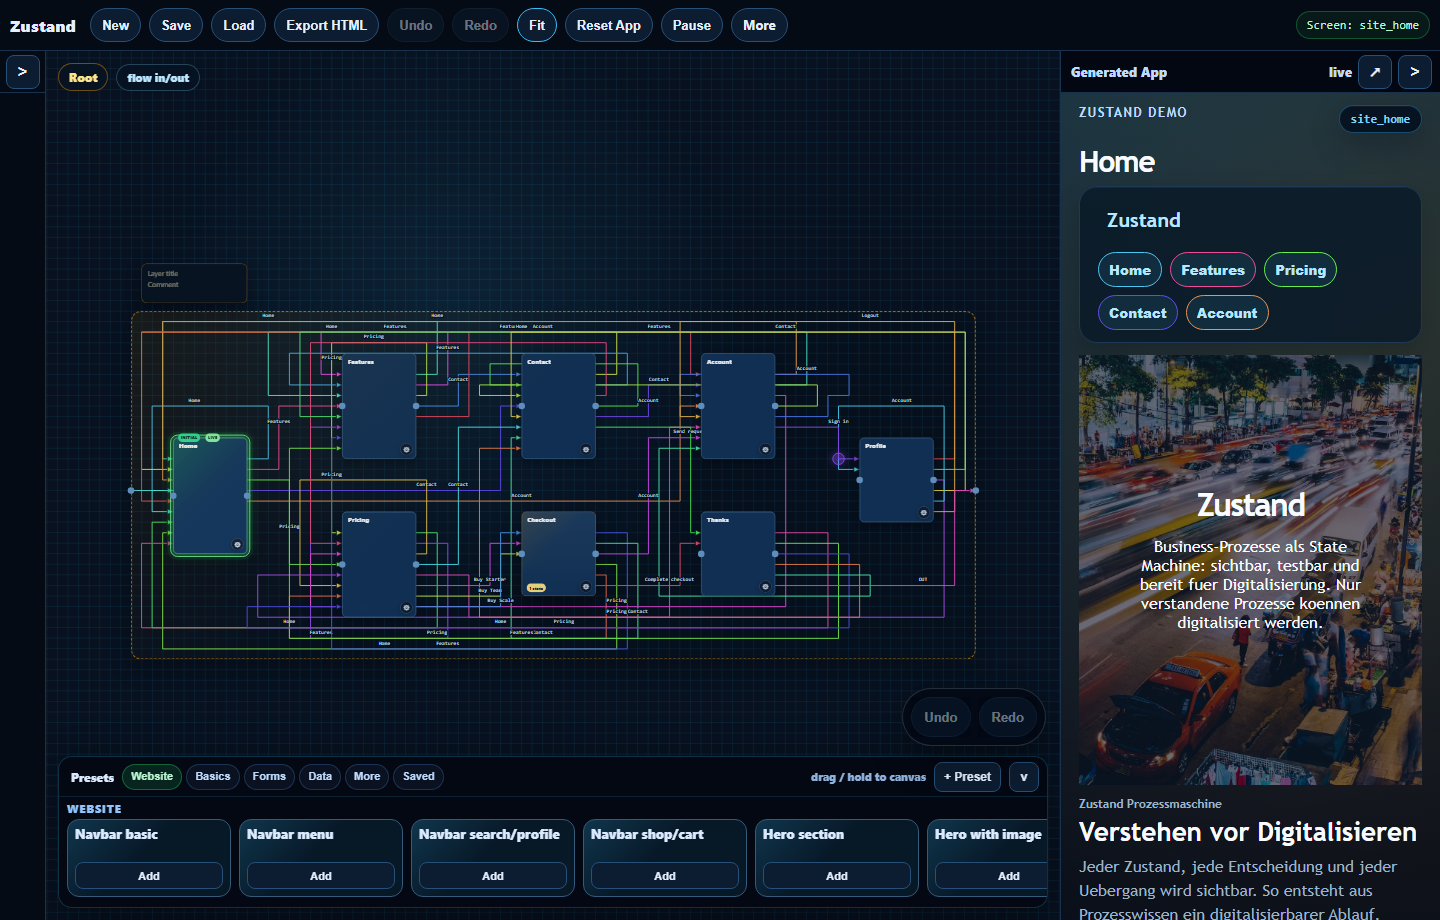
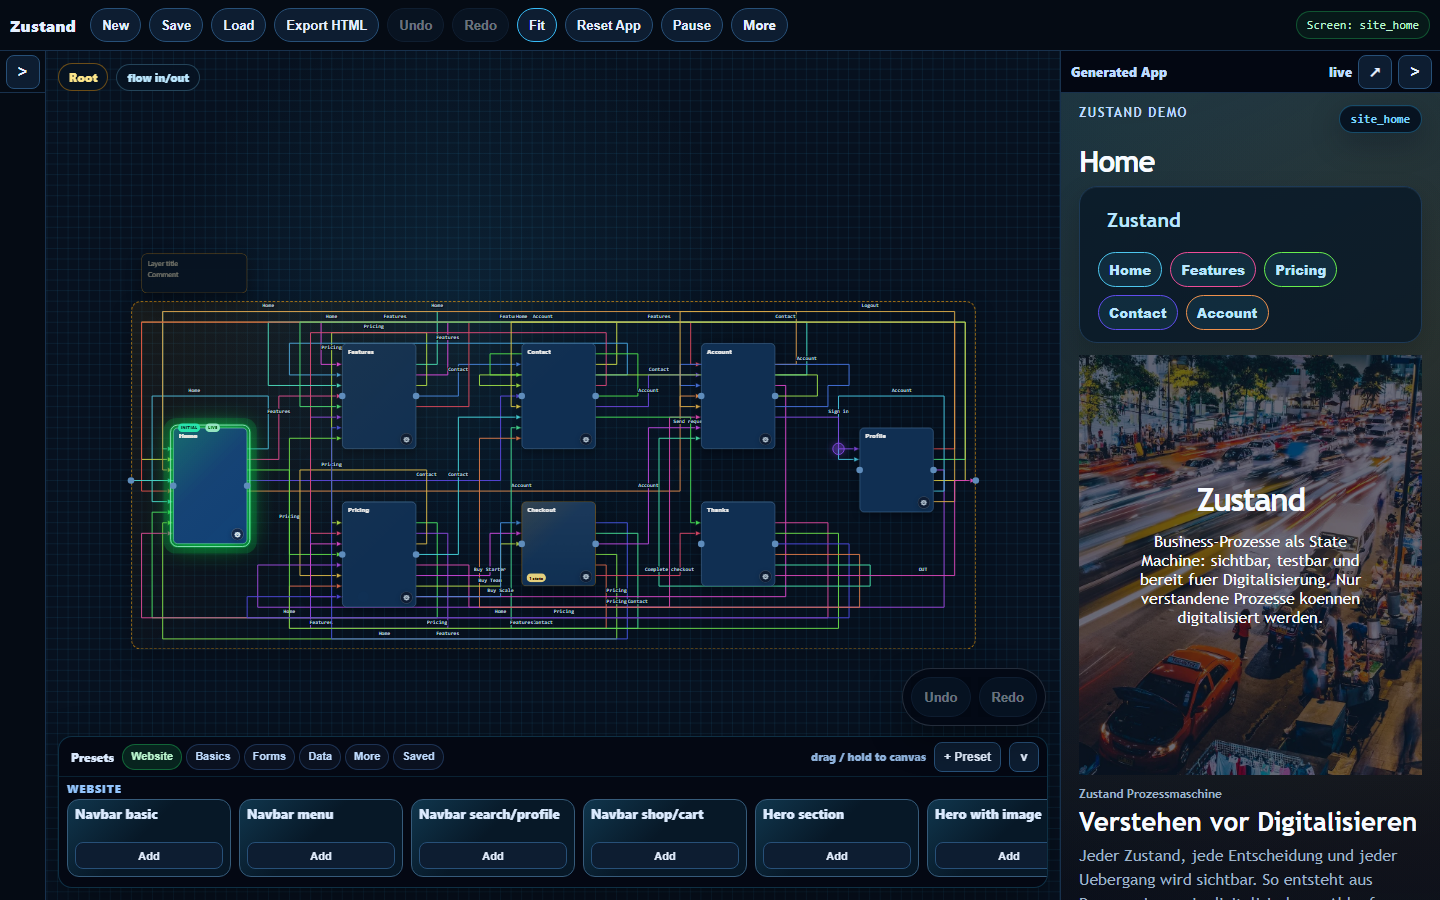
Harden demo actions and README screenshots

diff --git a/index.html b/index.html
@@ -1424,14 +1424,14 @@
     .daisy-feature-header { display: grid; gap: 8px; max-width: 720px; }
     .daisy-feature-header .daisy-title { font-size: clamp(26px, 4vw, 42px); line-height: 1.05; }
     .daisy-feature-cards { display: grid; grid-template-columns: repeat(auto-fit, minmax(min(100%, 220px), 1fr)); gap: 14px; align-items: stretch; }
-    .daisy-feature-card { display: flex; flex-direction: column; min-width: 0; }
+    .daisy-feature-card { display: flex; flex-direction: column; min-width: 0; height: 100%; }
     .daisy-feature-image { display: block; width: 100%; aspect-ratio: 16 / 10; object-fit: cover; border-bottom: 1px solid var(--line); background: #020617; }
-    .daisy-feature-card > .card-body { display: flex; flex-direction: column; width: 100%; gap: 8px; padding: 20px; }
+    .daisy-feature-card > .card-body { display: flex; flex: 1 1 auto; flex-direction: column; width: 100%; gap: 8px; padding: 20px; }
     .daisy-feature-card .card-actions { margin-top: auto; }
     .card[data-highlight="true"] { border-color: rgba(56,189,248,.58); box-shadow: inset 0 1px 0 rgba(255,255,255,.06), 0 18px 46px rgba(56,189,248,.16); }
     .daisy-pricing { display: grid; grid-template-columns: repeat(auto-fit, minmax(min(100%, 220px), 1fr)); gap: 16px; align-items: stretch; }
     .daisy-pricing > .card { display: flex; min-width: 0; }
-    .daisy-pricing > .card > .card-body { display: flex; flex-direction: column; gap: 8px; width: 100%; padding: 22px; }
+    .daisy-pricing > .card > .card-body { display: flex; flex: 1 1 auto; flex-direction: column; gap: 8px; width: 100%; padding: 22px; }
     .daisy-pricing .card-actions { margin-top: auto; }
     .daisy-pricing .btn { width: 100%; }
     @media (max-width: 540px) {
@@ -1484,7 +1484,7 @@
 
     const IS_STANDALONE_EXPORT = true;
[1 lines of base64/hex data omitted]
-    const EXPORTED_STATE_BLUEPRINT_SAVED_AT = "2026-07-08T12:03:50.016Z";
+    const EXPORTED_STATE_BLUEPRINT_SAVED_AT = "2026-07-08T14:53:09.365Z";
 
     let model = normalizeModel(JSON.parse(JSON.stringify(EXPORTED_STATE_BLUEPRINT)));
     let current = model.initial;
@@ -2281,12 +2281,24 @@
 
     function boundaryConfigFor(state) {
       const boundary = state && typeof state.boundary === "object" ? state.boundary : {};
-      return {
+      const out = {
         entryId: String(boundary.entryId || ""),
         exitId: String(boundary.exitId || ""),
         entryDisabled: Boolean(boundary.entryDisabled),
         exitDisabled: Boolean(boundary.exitDisabled)
       };
+      if (boundary.entryTriggerType !== undefined) {
+        out.entryTriggerType = normalizeTransitionTriggerType({ triggerType: boundary.entryTriggerType });
+        out.entryTriggerEvent = normalizeTransitionTriggerEvent({
+          id: out.entryId || "child-entry",
+          label: out.entryId || "Child entry",
+          triggerType: out.entryTriggerType,
+          triggerEvent: boundary.entryTriggerEvent || ""
+        });
+        out.entryTimerMs = normalizeTransitionTimerMs(boundary.entryTimerMs);
+        out.entryCondition = String(boundary.entryCondition || "");
+      }
+      return out;
     }
 
     function firstInternalEntryState(parentId) {
@@ -2314,7 +2326,14 @@
 
     function resolveRuntimeTarget(targetId, transition = null) {
       const target = findState(targetId);
-      return target ? target.id : targetId;
+      if (!target) return targetId;
+      const boundary = boundaryConfigFor(target);
+      const triggerType = normalizeTransitionTriggerType({ triggerType: boundary.entryTriggerType || "button" });
+      if (triggerType === "auto") {
+        const entry = groupEntryState(target.id, transition);
+        if (entry) return entry.id;
+      }
+      return target.id;
     }
 
     function applyStateDataDefaults(state) {
@@ -2440,14 +2459,28 @@
       if (!state) return null;
       const entry = groupEntryState(state.id, null);
       if (!entry) return null;
+      const id = `__runtime_enter_child:${state.id}:${entry.id}`;
+      const label = entry.title || "Next";
+      const boundary = boundaryConfigFor(state);
+      const triggerType = normalizeTransitionTriggerType({ triggerType: boundary.entryTriggerType || "button" });
+      const triggerEvent = normalizeTransitionTriggerEvent({
+        id,
+        label,
+        triggerType,
+        triggerEvent: boundary.entryTriggerEvent || ""
+      });
       return {
-        id: `__runtime_enter_child:${state.id}:${entry.id}`,
+        id,
         from: state.id,
         to: entry.id,
-        label: entry.title || "Next",
-        condition: "",
+        label,
+        condition: String(boundary.entryCondition || ""),
         set: {},
-        runtimeGenerated: true
+        triggerType,
+        triggerEvent,
+        timerMs: normalizeTransitionTimerMs(boundary.entryTimerMs),
+        runtimeGenerated: true,
+        runtimeBoundaryEntry: true
       };
     }
 

diff --git a/tests/state-tool.spec.js b/tests/state-tool.spec.js
@@ -1684,11 +1684,13 @@ test.describe("State Blueprint tool", () => {
 
     await expect.poll(async () => {
       const model = await savedModel(page);
+      const loginState = model.states.find(state => state.id === "site_login");
       return {
         name: model.name,
         initial: model.initial,
         stateIds: model.states.map(state => state.id).sort(),
         userTransitions: userTransitions(model).length,
+        loginHeroTransitionId: loginState?.data?.["states.site_login.hero"]?.transitionId || "",
         boundary: {
           entryId: model.boundary?.entryId || "",
           exitId: model.boundary?.exitId || ""
@@ -1713,6 +1715,7 @@ test.describe("State Blueprint tool", () => {
         "site_thanks"
       ],
       userTransitions: 47,
+      loginHeroTransitionId: "site_login_submit",
       boundary: { entryId: "site_home", exitId: "site_thanks" },
       scopedDataOnly: true,
       hasOldAuthDemoData: false
@@ -1897,8 +1900,9 @@ test.describe("State Blueprint tool", () => {
     await app.locator('input[type="email"]').fill("[email redacted]");
     await app.locator('input[type="password"]').fill("demo-password");
 
-    await expect(app.getByRole("button", { name: "Sign in", exact: true })).toHaveCount(1);
-    await app.getByRole("button", { name: "Sign in", exact: true }).click();
+    const signInButton = app.locator('.hero button[data-transition-id="site_login_submit"]').filter({ hasText: "Sign in" });
+    await expect(signInButton).toHaveCount(1);
+    await signInButton.click();
     await expectDemoShell("site_profile");
     await expect(app.getByText("Welcome back")).toBeVisible();
     await expect(app.locator('.avatar img[alt="Mira Keller"]')).toBeVisible();
@@ -2300,7 +2304,9 @@ test.describe("State Blueprint tool", () => {
     await expect(standalone.getByText("Sign in to continue")).toBeVisible();
     await standalone.locator('input[type="email"]').fill("[email redacted]");
     await standalone.locator('input[type="password"]').fill("demo-password");
-    await standalone.getByRole("button", { name: "Sign in", exact: true }).click();
+    const standaloneSignInButton = standalone.locator('.hero button[data-transition-id="site_login_submit"]').filter({ hasText: "Sign in" });
+    await expect(standaloneSignInButton).toHaveCount(1);
+    await standaloneSignInButton.click();
     await expectStandaloneShell("site_profile", "Profile");
     await expect(standalone.getByText("Welcome back")).toBeVisible();
     await expect(standalone.locator('.avatar img[alt="Mira Keller"]')).toBeVisible();

diff --git a/state.html b/state.html
@@ -5432,14 +5432,14 @@
     .daisy-feature-header { display: grid; gap: 8px; max-width: 720px; }
     .daisy-feature-header .daisy-title { font-size: clamp(26px, 4vw, 42px); line-height: 1.05; }
     .daisy-feature-cards { display: grid; grid-template-columns: repeat(auto-fit, minmax(min(100%, 220px), 1fr)); gap: 14px; align-items: stretch; }
-    .daisy-feature-card { display: flex; flex-direction: column; min-width: 0; }
+    .daisy-feature-card { display: flex; flex-direction: column; min-width: 0; height: 100%; }
     .daisy-feature-image { display: block; width: 100%; aspect-ratio: 16 / 10; object-fit: cover; border-bottom: 1px solid var(--line); background: #020617; }
-    .daisy-feature-card > .card-body { display: flex; flex-direction: column; width: 100%; gap: 8px; padding: 20px; }
+    .daisy-feature-card > .card-body { display: flex; flex: 1 1 auto; flex-direction: column; width: 100%; gap: 8px; padding: 20px; }
     .daisy-feature-card .card-actions { margin-top: auto; }
     .card[data-highlight="true"] { border-color: rgba(56,189,248,.58); box-shadow: inset 0 1px 0 rgba(255,255,255,.06), 0 18px 46px rgba(56,189,248,.16); }
     .daisy-pricing { display: grid; grid-template-columns: repeat(auto-fit, minmax(min(100%, 220px), 1fr)); gap: 16px; align-items: stretch; }
     .daisy-pricing > .card { display: flex; min-width: 0; }
-    .daisy-pricing > .card > .card-body { display: flex; flex-direction: column; gap: 8px; width: 100%; padding: 22px; }
+    .daisy-pricing > .card > .card-body { display: flex; flex: 1 1 auto; flex-direction: column; gap: 8px; width: 100%; padding: 22px; }
     .daisy-pricing .card-actions { margin-top: auto; }
     .daisy-pricing .btn { width: 100%; }
     @media (max-width: 540px) {
@@ -7746,6 +7746,7 @@
             email: "",
             password: "",
             actionLabel: "Sign in",
+            transitionId: "site_login_submit",
             loggedIn: false
           },
           "states.site_login.footer": footerData("site_login")

diff --git a/tests/landing-page.spec.js b/tests/landing-page.spec.js
@@ -48,6 +48,11 @@ test.describe("Landing page export", () => {
     ]);
     await page.locator(".steps").getByRole("button", { name: /Visualisieren/ }).click();
     await expect(page.locator("#statePill")).toHaveText("werkzeug");
+    await expect(page.locator(".daisy-feature-cards .daisy-feature-card")).toHaveCount(3);
+    await expect.poll(async () => page.locator(".daisy-feature-cards .card-actions").evaluateAll(actions => {
+      const tops = actions.map(action => Math.round(action.getBoundingClientRect().top));
+      return new Set(tops).size;
+    })).toBe(1);
 
     await editorLink.click();
     await expect(page).toHaveURL(/state\.html$/);

diff --git a/README.md b/README.md
@@ -6,6 +6,8 @@ The repository is intentionally narrow. It contains the app, its generated previ
 
 ## Screenshots
 
+These screenshots are generated from the real `state.html` app in CI after successful pushes, so the README stays aligned with the current UI.
+
 The editor keeps the process, the generated app, and the global-state contract visible in one place.
 
 ![Zustand editor canvas with a demo business flow](assets/screenshots/zustand-editor-flow.png)